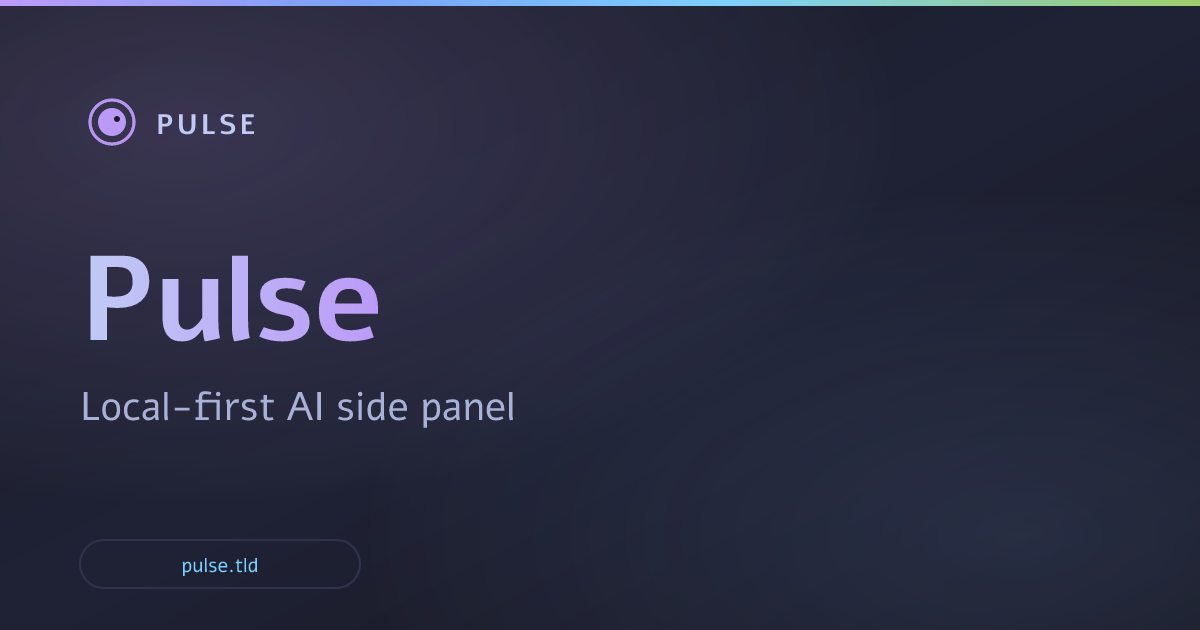
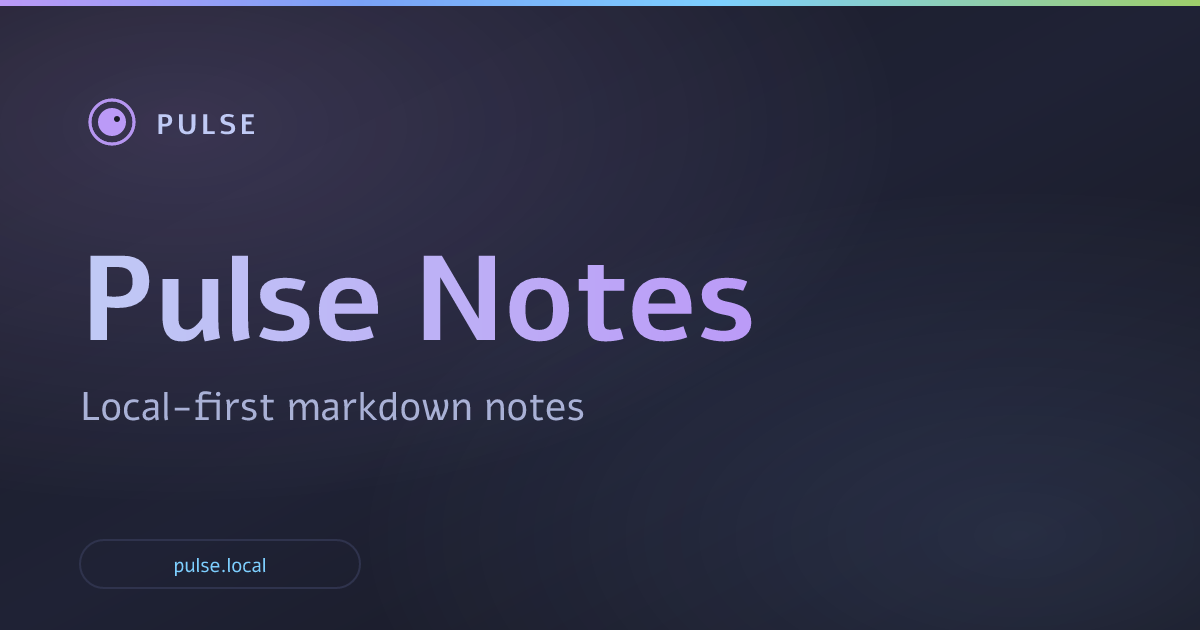
pulse-landing: P0 fixes — move .nav* to global.css (5 unstyled pages), correct OG content + site domain
r100 visual verify found 2 P0 bugs:

1. CSS import bug: 5 of 9 pages (home, compare, license, privacy, coc) had no .nav* styles — they only loaded global.css (10KB), not notes.css (36KB). Result: nav-drawer open + nav links stacked + no fixed nav bar at desktop width. Fix: move .nav / .nav__* / .nav-drawer* / body.has-nav from src/styles/notes.css to src/styles/global.css. Nav block is placed AFTER .btn on purpose: an element with class="btn nav__cta" needs .nav__cta { display: none } to win the cascade on mobile. (If placed before .btn, .btn { display: inline-flex } overrides it and the nav CTA shows on mobile, which is wrong.)
[…]

Changed region(s): [[0.2775, 0.3921, 0.6475, 0.5429], [0.2158, 0.6032, 0.4933, 0.6937], [0.1542, 0.8746, 0.2158, 0.9349]]

diff --git a/src/styles/notes.css b/src/styles/notes.css
@@ -1,140 +1,18 @@
 /* ──────────────────────────────────────────────────────────
    Pulse Notes — page-specific styles
-   Extends global.css (Tokyo Night palette, base buttons, container)
+   Extends global.css (Tokyo Night palette, base buttons, container,
+   shared top nav, drawer). All layout-level classes (`.nav*`,
+   `.nav-drawer*`, `body.has-nav`) live in global.css so every page
+   gets them — only `.notes-*` and friends stay here.
    ────────────────────────────────────────────────────────── */
 
-/* ── Top nav (notes page) ─────────────────────────────── */
-.nav {
-  position: fixed;
-  top: 0; left: 0; right: 0;
-  z-index: 50;
-  padding: 0 var(--gutter);
-  transition: backdrop-filter var(--dur) var(--ease),
-              background var(--dur) var(--ease),
-              border-color var(--dur) var(--ease);
-  border-bottom: 1px solid transparent;
-}
-.nav.is-scrolled {
-  background: rgba(26, 27, 38, 0.72);
-  backdrop-filter: saturate(180%) blur(18px);
-  -webkit-backdrop-filter: saturate(180%) blur(18px);
-  border-bottom-color: var(--border);
-}
-.nav__inner {
-  width: 100%;
-  max-width: var(--max-w);
-  margin: 0 auto;
-  height: 64px;
-  display: flex;
-  align-items: center;
-  justify-content: space-between;
-  gap: 1rem;
-}
-.nav__brand {
-  display: inline-flex;
-  align-items: center;
-  gap: 0.5rem;
-  color: var(--fg);
-  font-weight: 600;
-  font-size: 0.98rem;
-  letter-spacing: -0.005em;
-}
-.nav__brand:hover { color: var(--fg); }
-.nav__brand-name { font-weight: 700; }
-.nav__brand svg { width: 28px; height: 28px; flex-shrink: 0; }
-.nav__links {
-  display: none;
-  list-style: none;
-  align-items: center;
-  gap: 1.75rem;
-  margin: 0;
-  padding: 0;
-}
-@media (min-width: 768px) { .nav__links { display: flex; } }
-.nav__link {
-  color: var(--fg-dim);
-  font-size: 0.92rem;
-  font-weight: 500;
-  transition: color var(--dur) var(--ease);
-}
-.nav__link:hover, .nav__link.is-cta { color: var(--fg); }
-.nav__link.is-cta:hover { color: var(--purple); }
-.nav__right { display: flex; align-items: center; gap: 0.5rem; }
-.nav__cta {
-  display: none;
-  padding: 0.5rem 1rem;
-  font-size: 0.88rem;
-  min-height: 36px;
-}
-@media (min-width: 768px) { .nav__cta { display: inline-flex; } }
-.nav__burger {
-  display: inline-flex;
-  align-items: center;
-  justify-content: center;
-  width: 40px;
-  height: 40px;
-  border-radius: 8px;
-  color: var(--fg);
-  border: 1px solid var(--border);
-  background: transparent;
-  transition: border-color var(--dur) var(--ease);
-}
-.nav__burger:hover { border-color: var(--fg-dim); }
-@media (min-width: 768px) { .nav__burger { display: none; } }
-.nav__burger svg { width: 18px; height: 18px; }
-.nav-drawer {
-  position: fixed;
-  inset: 64px 0 0;
-  z-index: 49;
-  background: rgba(26, 27, 38, 0.96);
-  backdrop-filter: blur(20px) saturate(160%);
-  -webkit-backdrop-filter: blur(20px) saturate(160%);
-  display: flex;
-  flex-direction: column;
-  padding: 1.5rem var(--gutter) 2rem;
-  gap: 0.5rem;
-  transform: translateY(-110%);
-  transition: transform var(--dur) var(--ease);
-  visibility: hidden;
-  overflow-y: auto;
-}
-.nav-drawer.is-open { transform: translateY(0); visibility: visible; }
-.nav-drawer__link {
-  display: block;
-  padding: 0.85rem 0.25rem;
-  color: var(--fg);
-  font-size: 1.1rem;
-  font-weight: 500;
-  border-bottom: 1px solid var(--border);
-  letter-spacing: -0.005em;
-}
-.nav-drawer__link:hover { color: var(--purple); }
-.nav-drawer__cta {
-  margin-top: 1rem;
-  align-self: stretch;
-  min-height: 52px;
-  font-size: 1.05rem;
-}
-body.has-nav { padding-top: 0; }
-
 @media (max-width: 639px) {
-  .btn { min-height: 52px; width: 100%; padding: 0.9em 1.4em; }
   .notes-hero__ctas, .ncta__row {
     flex-direction: column;
     align-items: stretch;
     width: 100%;
   }
   .notes-hero__ctas .btn, .ncta__row .btn { width: 100%; }
-}
-
-@media (prefers-reduced-motion: reduce) {
-  *, *::before, *::after {
-    animation-duration: 0.001ms !important;
-    animation-iteration-count: 1 !important;
-    transition-duration: 0.001ms !important;
-    scroll-behavior: auto !important;
-  }
-  .reveal { opacity: 1; transform: none; }
 }
 
 /* ── Notes main: pad for fixed nav ────────────────────── */

diff --git a/src/styles/global.css b/src/styles/global.css
@@ -217,6 +217,128 @@ section + section { border-top: 1px solid var(--border); }
 }
 .btn--link:hover { color: var(--blue); transform: none; }
 
+/* ── Top nav + drawer (shared by every page via Base.astro) ──
+   Placed AFTER .btn on purpose: an element with class "btn nav__cta"
+   needs .nav__cta { display: none } to win the cascade on mobile.
+   Previously lived in src/styles/notes.css and only loaded on
+   notes/changelog/release-notes pages. Moved here in r101 so the
+   other pages (home, compare, license, privacy, coc) get the same
+   64px fixed nav + mobile drawer. Renders identically on pages
+   that imported notes.css because cascade order is preserved.
+   ──────────────────────────────────────────────────────────── */
+.nav {
+  position: fixed;
+  top: 0; left: 0; right: 0;
+  z-index: 50;
+  padding: 0 var(--gutter);
+  transition: backdrop-filter var(--dur) var(--ease),
+              background var(--dur) var(--ease),
+              border-color var(--dur) var(--ease);
+  border-bottom: 1px solid transparent;
+}
+.nav.is-scrolled {
+  background: rgba(26, 27, 38, 0.72);
+  backdrop-filter: saturate(180%) blur(18px);
+  -webkit-backdrop-filter: saturate(180%) blur(18px);
+  border-bottom-color: var(--border);
+}
+.nav__inner {
+  width: 100%;
+  max-width: var(--max-w);
+  margin: 0 auto;
+  height: 64px;
+  display: flex;
+  align-items: center;
+  justify-content: space-between;
+  gap: 1rem;
+}
+.nav__brand {
+  display: inline-flex;
+  align-items: center;
+  gap: 0.5rem;
+  color: var(--fg);
+  font-weight: 600;
+  font-size: 0.98rem;
+  letter-spacing: -0.005em;
+}
+.nav__brand:hover { color: var(--fg); }
+.nav__brand-name { font-weight: 700; }
+.nav__brand svg { width: 28px; height: 28px; flex-shrink: 0; }
+.nav__links {
+  display: none;
+  list-style: none;
+  align-items: center;
+  gap: 1.75rem;
+  margin: 0;
+  padding: 0;
+}
+@media (min-width: 768px) { .nav__links { display: flex; } }
+.nav__link {
+  color: var(--fg-dim);
+  font-size: 0.92rem;
+  font-weight: 500;
+  transition: color var(--dur) var(--ease);
+}
+.nav__link:hover, .nav__link.is-cta { color: var(--fg); }
+.nav__link.is-cta:hover { color: var(--purple); }
+.nav__right { display: flex; align-items: center; gap: 0.5rem; }
+.nav__cta {
+  display: none;
+  padding: 0.5rem 1rem;
+  font-size: 0.88rem;
+  min-height: 36px;
+}
+@media (min-width: 768px) { .nav__cta { display: inline-flex; } }
+.nav__burger {
+  display: inline-flex;
+  align-items: center;
+  justify-content: center;
+  width: 40px;
+  height: 40px;
+  border-radius: 8px;
+  color: var(--fg);
+  border: 1px solid var(--border);
+  background: transparent;
+  transition: border-color var(--dur) var(--ease);
+}
+.nav__burger:hover { border-color: var(--fg-dim); }
+@media (min-width: 768px) { .nav__burger { display: none; } }
+.nav__burger svg { width: 18px; height: 18px; }
+.nav-drawer {
+  position: fixed;
+  inset: 64px 0 0;
+  z-index: 49;
+  background: rgba(26, 27, 38, 0.96);
+  backdrop-filter: blur(20px) saturate(160%);
+  -webkit-backdrop-filter: blur(20px) saturate(160%);
+  display: flex;
+  flex-direction: column;
+  padding: 1.5rem var(--gutter) 2rem;
+  gap: 0.5rem;
+  transform: translateY(-110%);
+  transition: transform var(--dur) var(--ease);
+  visibility: hidden;
+  overflow-y: auto;
+}
+.nav-drawer.is-open { transform: translateY(0); visibility: visible; }
+.nav-drawer__link {
+  display: block;
+  padding: 0.85rem 0.25rem;
+  color: var(--fg);
+  font-size: 1.1rem;
+  font-weight: 500;
+  border-bottom: 1px solid var(--border);
+  letter-spacing: -0.005em;
+}
+.nav-drawer__link:hover { color: var(--purple); }
+.nav-drawer__cta {
+  margin-top: 1rem;
+  align-self: stretch;
+  min-height: 52px;
+  font-size: 1.05rem;
+}
+body.has-nav { padding-top: 0; }
+
 /* ── Cards ───────────────────────────────────────────── */
 .card {
   background: linear-gradient(180deg, var(--surface) 0%, var(--bg-soft) 100%);
